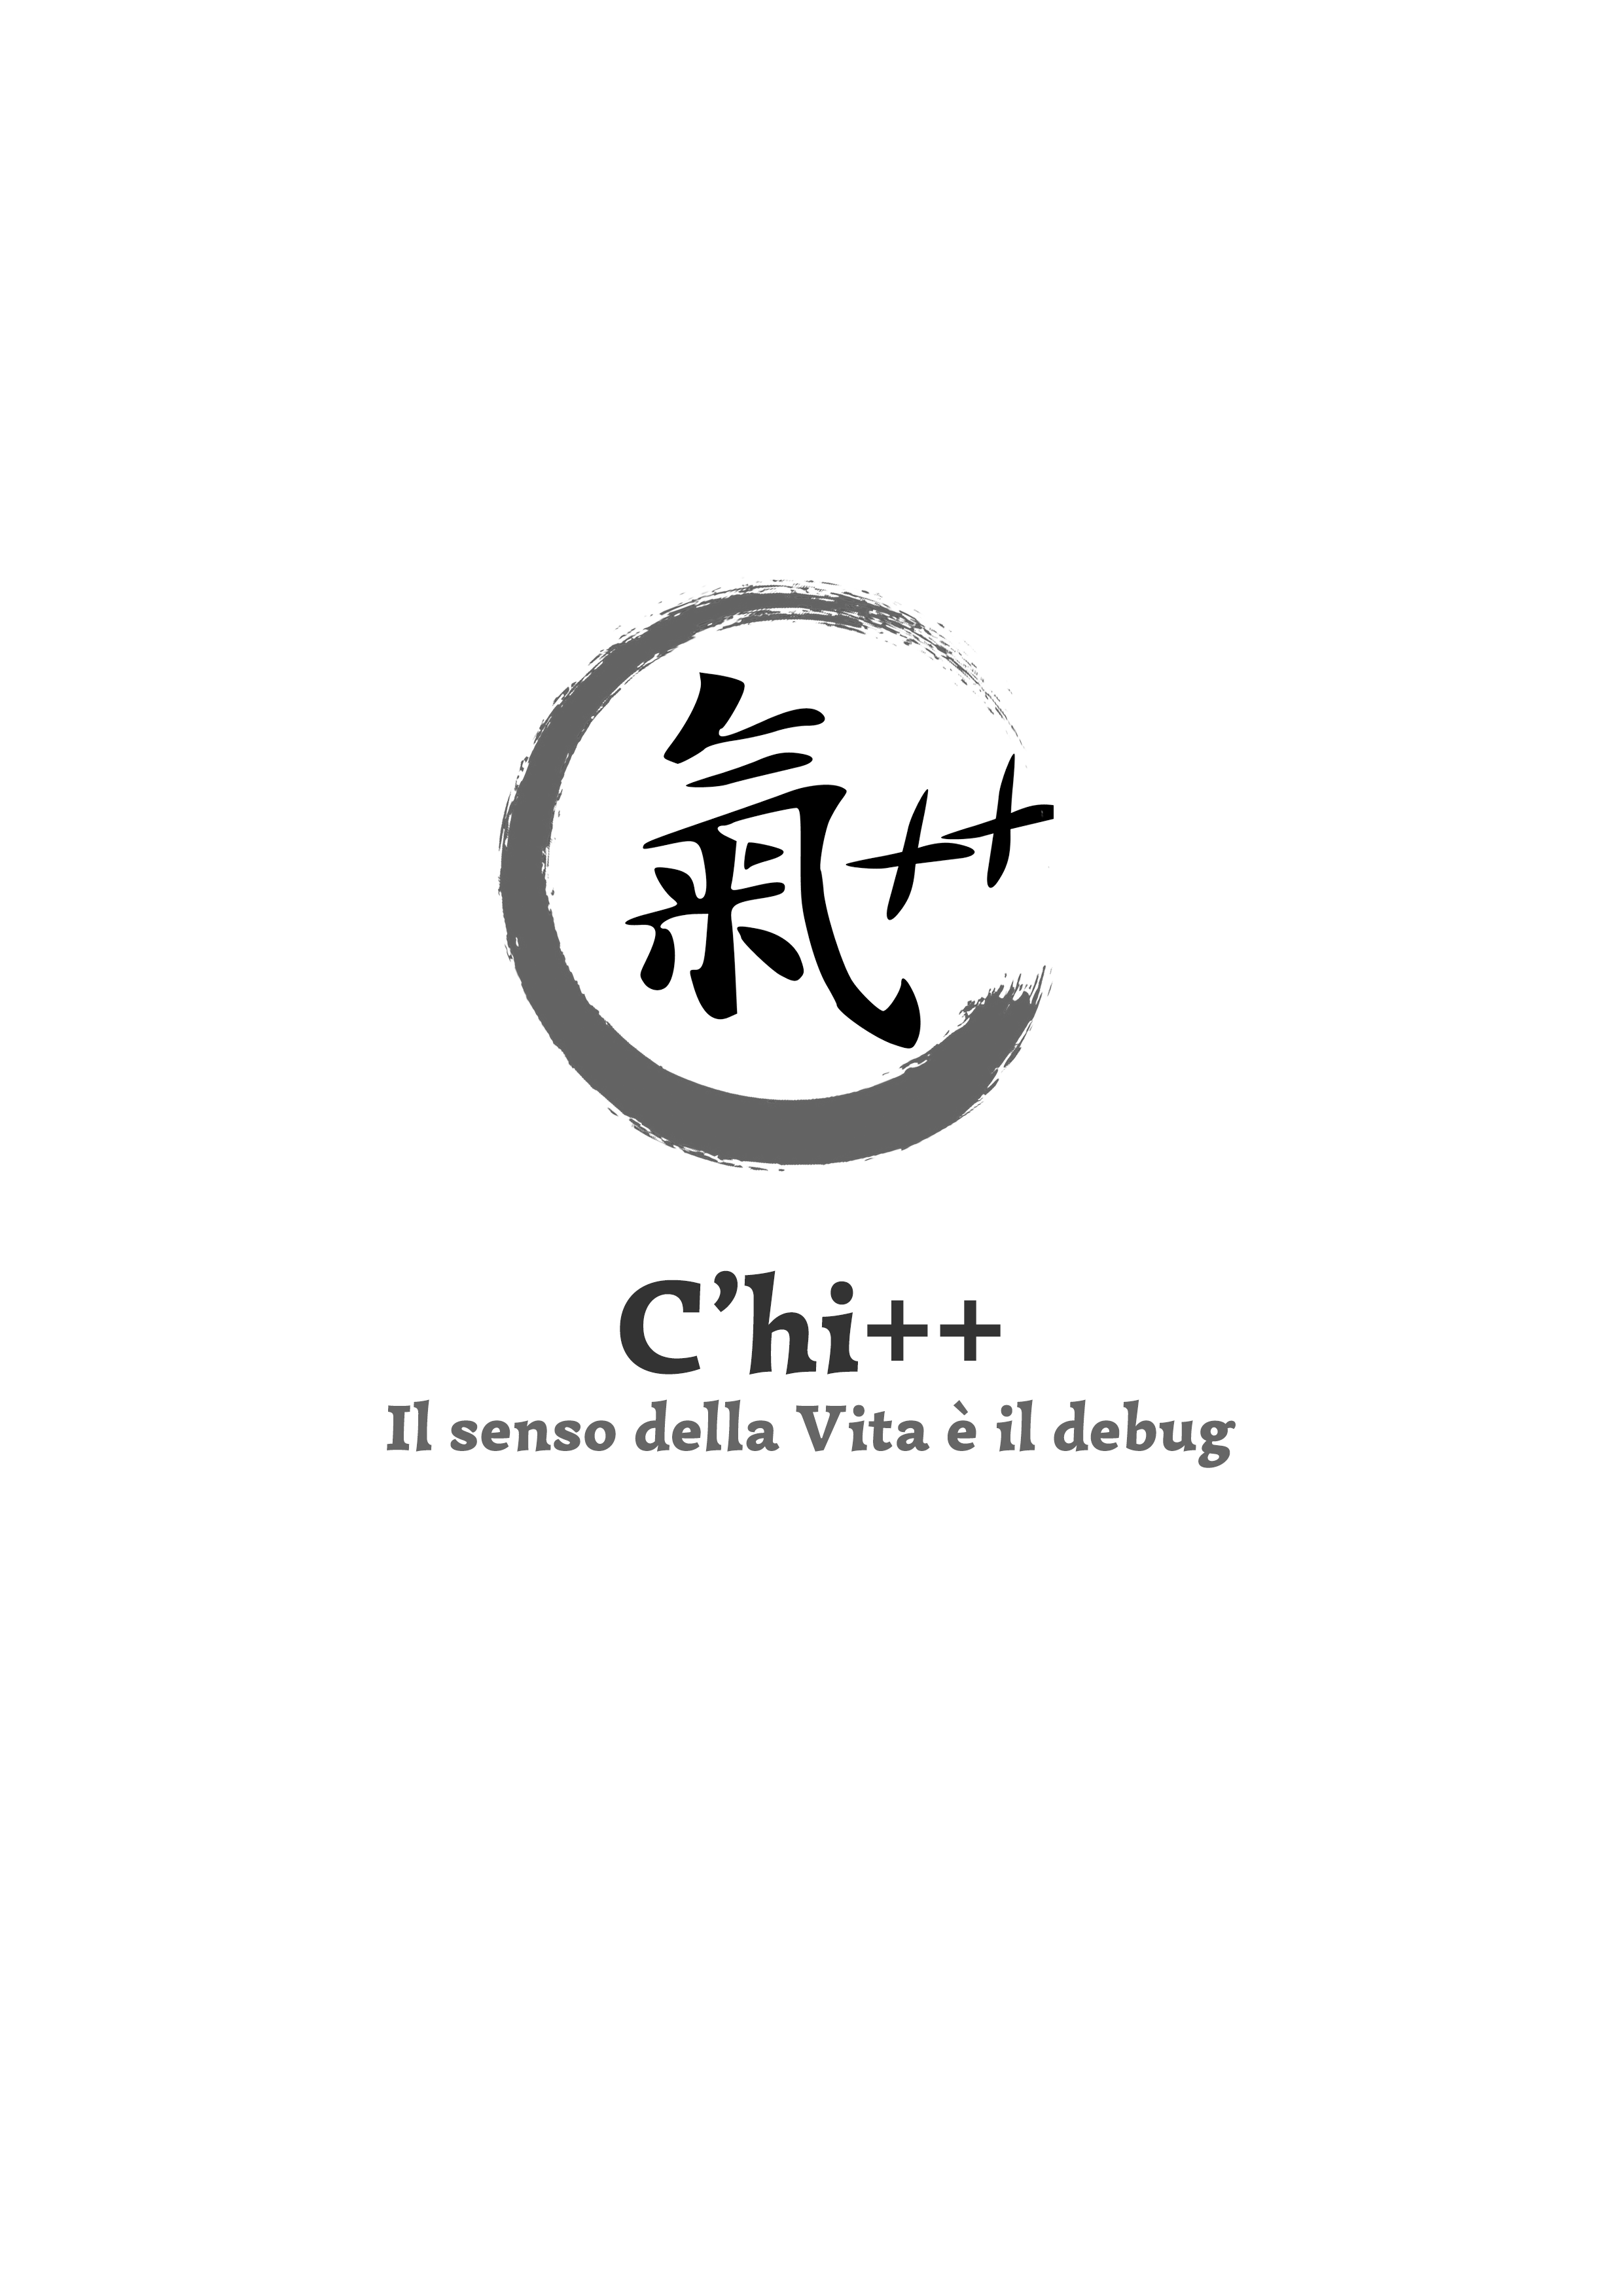
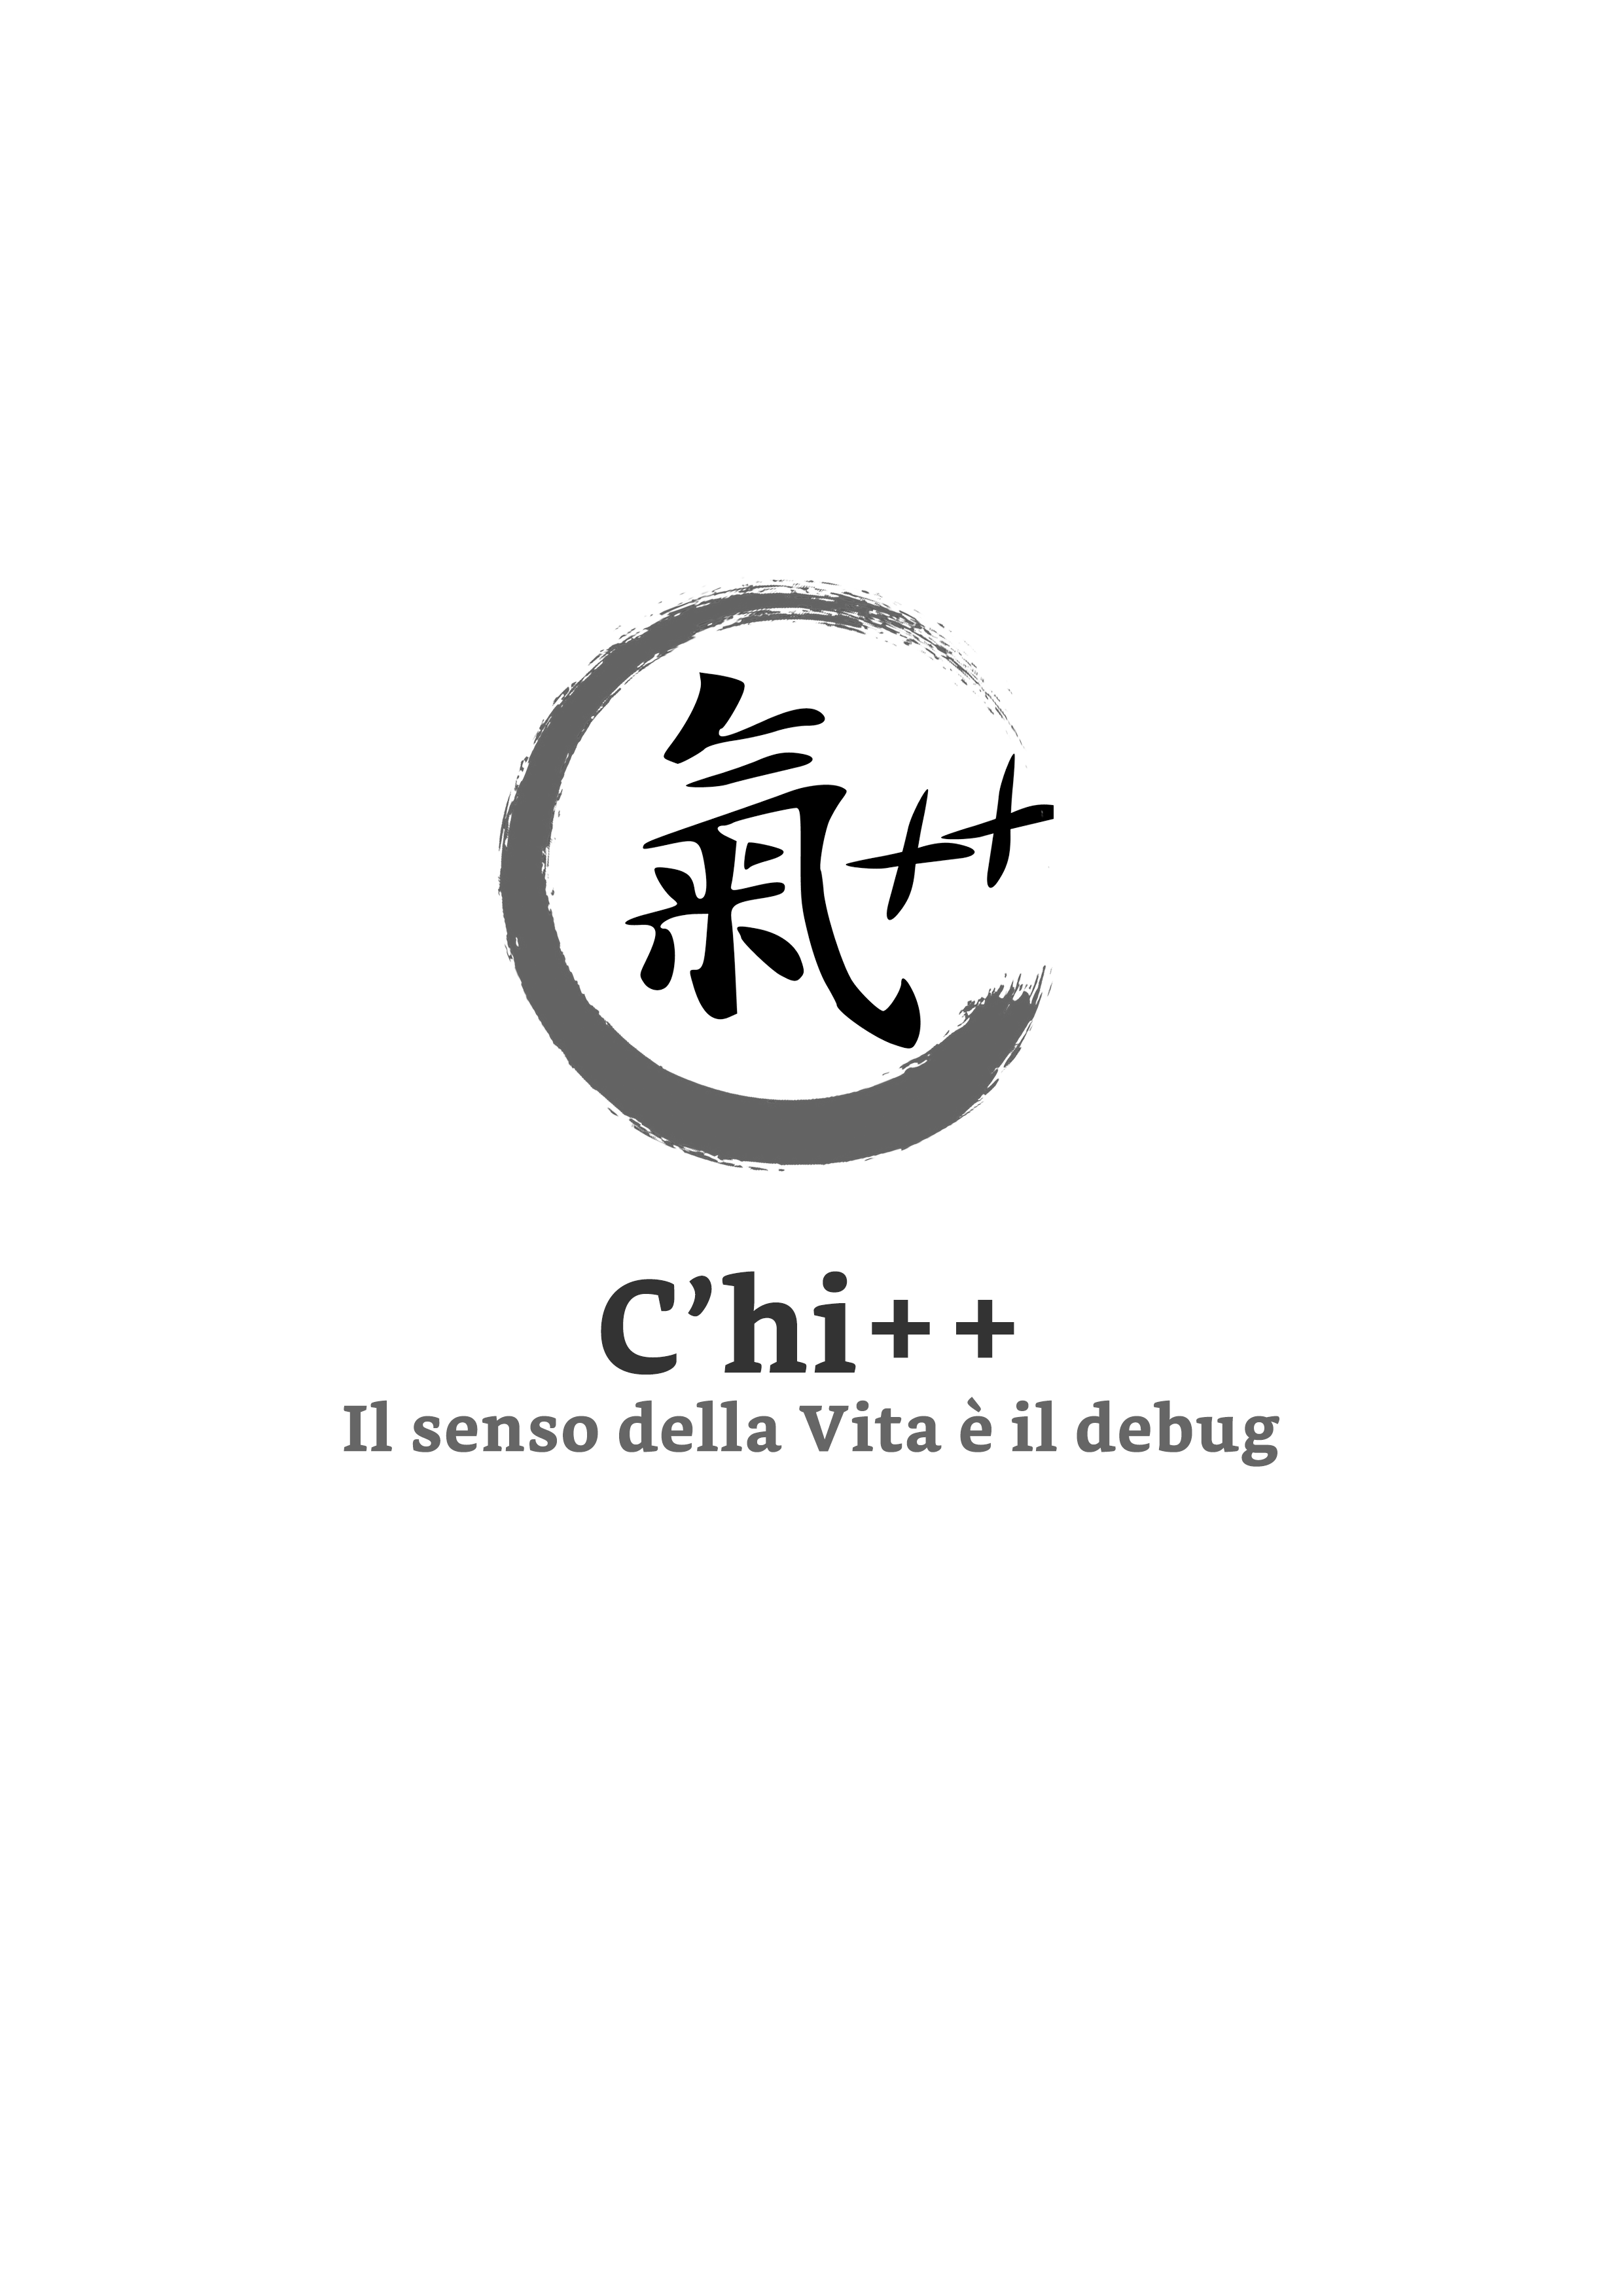
Cambiato il font del PDF

Changed region(s): [[0.2173, 0.5593, 0.8073, 0.6525]]

diff --git a/_sass/pdf.css b/_sass/pdf.css
@@ -32,13 +32,12 @@
 BODY {
 	background: #fdfdfd;
 	color: #111;
-	font-family: Simonetta, Arial, sans-serif;
+	font-family: "Bookerly", Arial, sans-serif;
 	font-size: 13pt;
 	margin: 1cm 1cm 2cm 1cm;
 	text-align: justify;
 	line-height: 1.4;
 	background-color: white;
-	max-width: 210mm;
 	margin: auto;
 }
 
@@ -48,6 +47,13 @@ H1, H2, H3, H4 {
 }
 H1 {
     font-size: 2rem;
+}
+
+/**
+*	Corregge l'errore nella visualizzazion del titolo
+*/
+H1.title {
+	display: none;
 }
 H2 {
     font-size: 1.6rem;
@@ -142,9 +148,6 @@ SUP {
     vertical-align: super;
     line-height: 0;
 }
-DIV {
- display: inline-block;
-}
 UL {
     list-style-type: square;
     margin: 1rem 2rem;
@@ -183,59 +186,6 @@ TABLE TH {
     text-align: center !important;
 }
 
-/**
- *
- *  Stili per il manuale
- *
- */
-{
-}
-DIV.page {
-    min-height: 100vh;
-}
-HEADER titolo-2 {
-    float: unset
-}
-HEADER DIV.box.titoli {
-    width: 100%;
-}
-HEADER NAV.menu-top {
-    border: none;
-}
-HEADER NAV.menu-top A {
-    padding: 0.5rem 0;
-}
-HEADER NAV.menu-top A.center {
-    padding: 0.5rem 1rem;
-}
-FOOTER {
-}
-DIV.copertina {
-    text-align: center;
-    margin-top: 10vh;
-}
-DIV.copertina IMG.logo {
-    width: 260px;
-    display: inline-block;
-}
-DIV.copertina H1 {
-    margin-top: 2rem;
-    margin-bottom: 0;
-    font-size: 3rem;
-    color:#550;
-}
-DIV.copertina H2 {
-    padding: 0;
-    font-size: 1.4rem;
-}
-BODY.manuale.dedica {
-    margin: 20vh auto;
-}
-BODY.manuale.dedica P {
-    text-align: center;
-    max-width: 22rem;
-    margin: auto
-}
 SECTION.indice {
  text-align: center;
 }
@@ -309,22 +259,14 @@ UL {
  */
 BLOCKQUOTE {
     color: #333;
-    font-size: 14pt;
     padding: 1em;
     font-style: italic;
     line-height: 1.5;
     text-align: center;
 }
+
 BLOCKQUOTE P {
-    text-align: left;
-    display: inline-block;
-}
-BLOCKQUOTE.spalla-sx {
-    padding-left: 2em;
-    text-align: left;
-}
-BLOCKQUOTE.giustificato {
-    text-align: justify;
+	font-style: italic;
 }
 
 /** Stile per le citazioni in testa */
@@ -376,13 +318,8 @@ TABLE.rgb TD:nth-child(1) {
 TABLE.rgb TD:nth-child(2) {
     min-width: 10rem;
 }
-/*
-BLOCKQUOTE.output {
-    text-align: justify;
-    background-color: #eee;
-    margin: 1rem auto;
-}
-BLOCKQUOTE.output DIV[id^="banner"] {
+
+DIV[id^="banner"] {
     display: block;
     height: 100px;
     width: 200px;
@@ -390,24 +327,15 @@ BLOCKQUOTE.output DIV[id^="banner"] {
     margin: 1rem auto;
     background-color: #aaa;
 }
-*/
 /**  Dedica e citazione in testa */
-SECTION.dedica {
+DIV.corpo BLOCKQUOTE P {
     font-style: italic;
     font-size: 1rem;
-    margin: 0 auto;
-    padding-top: 5rem;
-    padding-left: 30%;
-    padding-bottom: 5rem;
-    text-align: right;
-    page-break-after: always;
+		margin: 0;
+		padding-top: 5cm;
+    text-align: center;
+		white-space: nowrap;
 }
-
-SECTION.citazione SPAN {
-    font-style: normal
-}
-
-
 
 @media print {
   h1 {
@@ -415,7 +343,6 @@ SECTION.citazione SPAN {
   }
 
 	SECTION.dedica {
-			padding-top: 5rem;
 			page-break-before: always;
 	}
 }

diff --git a/_book/dedica.html b/_book/dedica.html
@@ -1,0 +1,11 @@
+<!DOCTYPE html>
+<html lang="it-IT">
+<head>
+    <meta charset="utf-8" />
+    <link rel="stylesheet" href="../_sass/pdf.css" />
+</script>
+</head>
+<body class="copertina">
+<img style="width:100%" src="../_book/copertina.png" />
+</body>
+</html>

diff --git a/docs/man/dedica.html b/docs/man/dedica.html
@@ -63,10 +63,10 @@
 </header>
         <main class="corpo pubblicato ">
         
-            <section class="dedica">
-Questo libro è dedicato ai miei nipoti.<br />
-I tre che vivono in Francia e i tre miliardi che vivono anche altrove.
-</section>
+            <blockquote>
+  <p>Questo libro è dedicato ai miei nipoti.<br />
+I tre che vivono in Francia e i tre miliardi che vivono anche altrove.</p>
+</blockquote>
 
         
         </main>

diff --git a/_man/dedica.md b/_man/dedica.md
@@ -9,7 +9,5 @@ permalink:  /man/dedica
 no-index:   true
 ---
 
-<section class="dedica">
-Questo libro è dedicato ai miei nipoti.<br />
-I tre che vivono in Francia e i tre miliardi che vivono anche altrove.
-</section>
+> Questo libro è dedicato ai miei nipoti.<br />
+> I tre che vivono in Francia e i tre miliardi che vivono anche altrove.